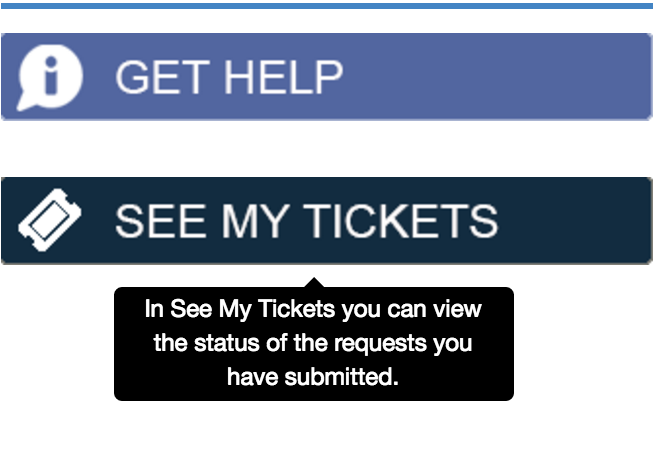
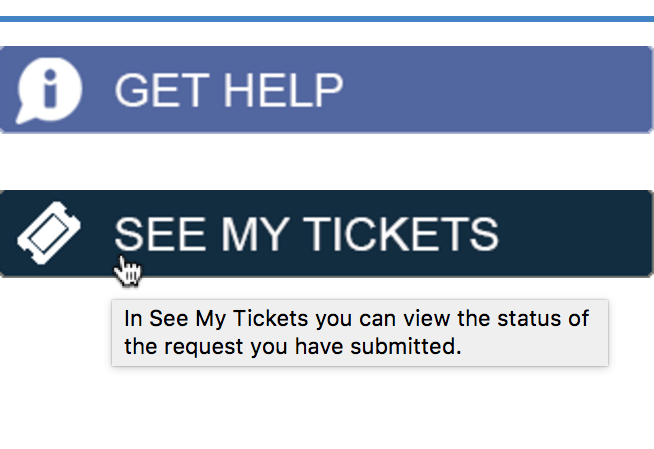
ServiceNow, tooltip

diff --git a/review/ServiceNow/index.html b/review/ServiceNow/index.html
@@ -184,7 +184,7 @@
             </p>
           </div>
           <div class="col-sm-4">
-            <img src="See_My_Tickets_current_2_2.png" width="100%">
+            <img src="See_My_Tickets_current_2_3.png" width="100%">
             <p class="text-muted">Current link to My Tickets</p>
           </div>
           <div class="col-sm-4">
